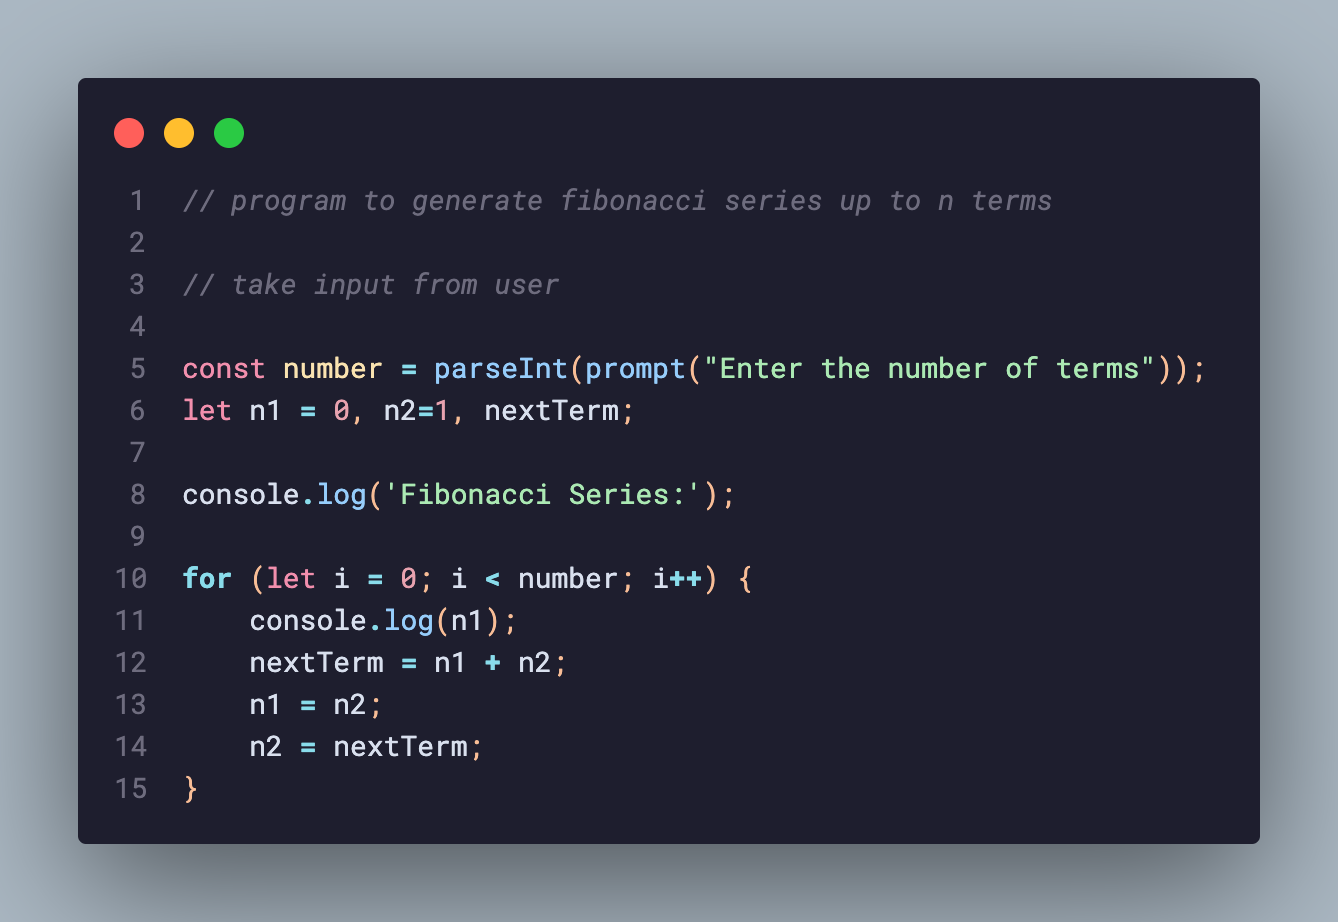
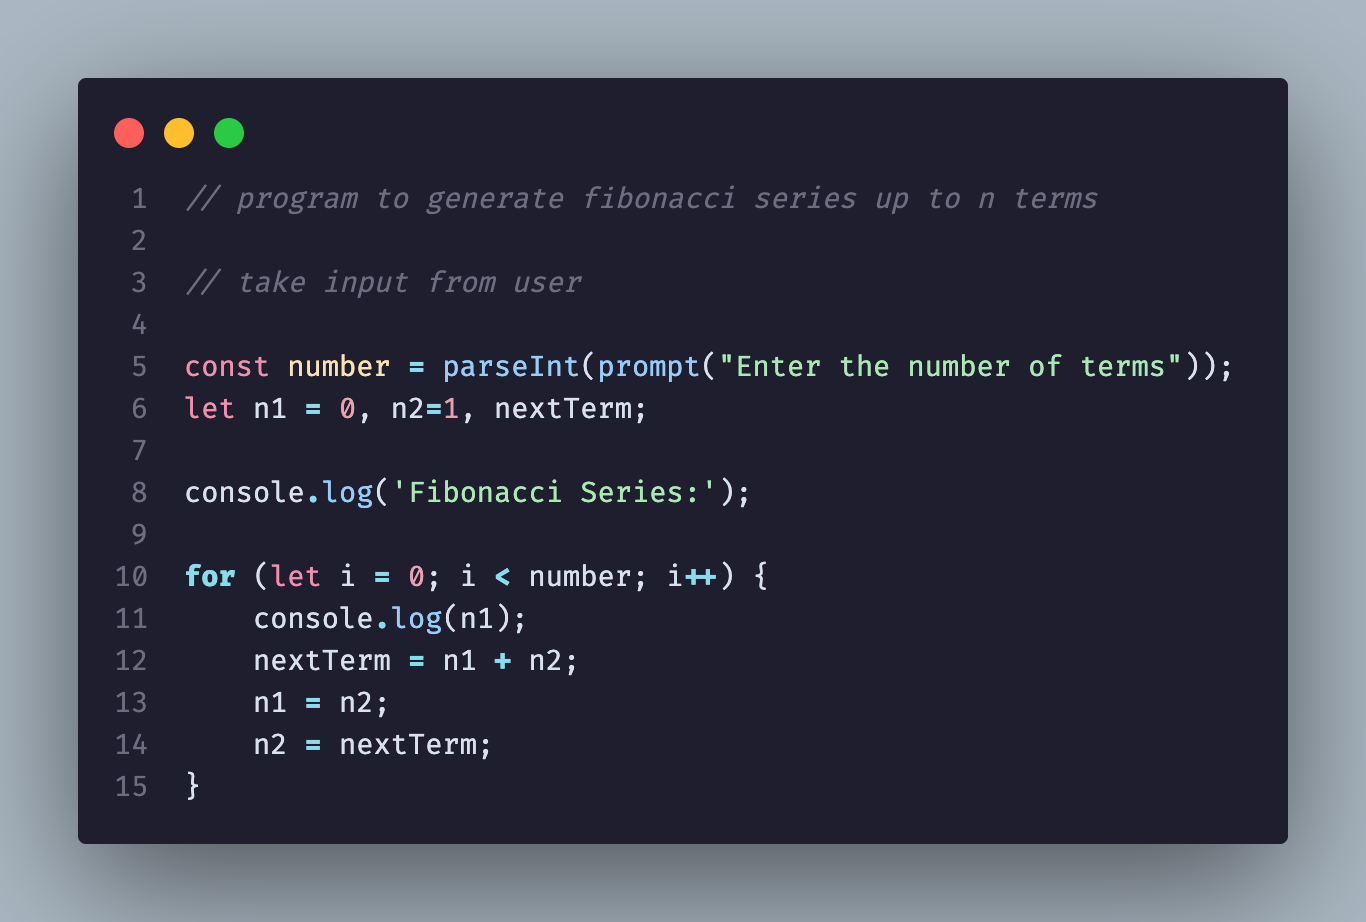
update screenshots and README

diff --git a/README.md b/README.md
@@ -16,4 +16,12 @@ Javascript
 ## Description
 I absolutely love the syntax highlighting in the [Noctis](https://github.com/liviuschera/noctis) theme by Liviu Schera, but [Catppuccin](https://github.com/catppuccin/catppuccin) is absolutely blowing up right now and it is such a nice palette, I had to try to combine the two. This is the result!
 
+## 👍 For Best Experience 👍
+add bracket pair colorization to your `settings.json`
+```
+{
+    "editor.bracketPairColorization.enabled": true,
+    "editor.guides.bracketPairs": "active",
+}
+```
 **Enjoy!**

diff --git a/CHANGELOG.md b/CHANGELOG.md
@@ -4,6 +4,11 @@ All notable changes to the "catppuccin-noctis" extension will be documented in t
 
 Check [Keep a Changelog](http://keepachangelog.com/) for recommendations on how to structure this file.
 
+## 0.4.0
+
+- add bracket pair colorization
+- fix text colorization to be white
+- update screenshots
 
 ## 0.3.0
 
